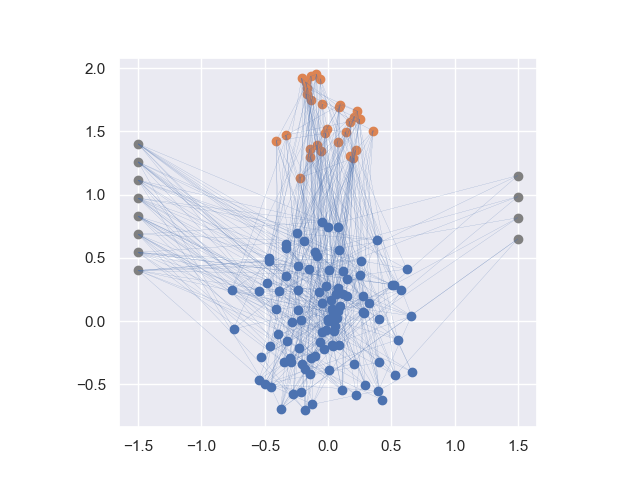
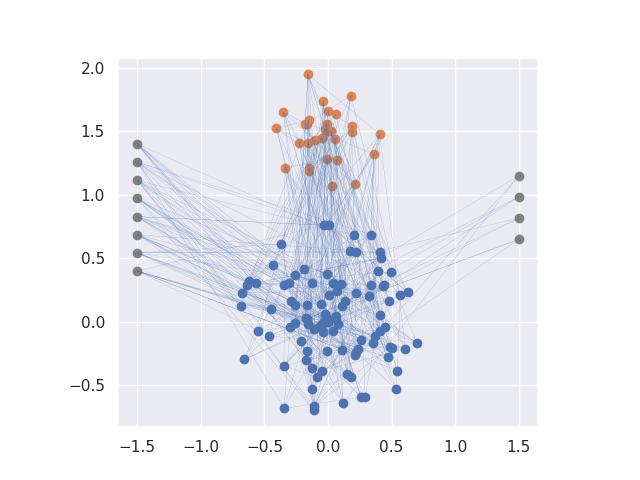
Continuing on animate()

diff --git a/snn.py b/snn.py
@@ -3,7 +3,7 @@ from joblib import delayed, Parallel
 import sys
 
 import numpy as np
-np.random.seed(13)
+#np.random.seed(13)
 
 import nest
 nest.set_verbosity("M_WARNING")
@@ -42,7 +42,10 @@ def get_spike_times_by_id(times_senders, pop, unit_s=False):
     # spikes_per_id = []
     scale = 1000. if unit_s else 1.
 
-    delayed_ = (delayed(__get_spike_times_by_id)(idx, times, senders, scale) for idx in pop)
+    delayed_ = (delayed(__get_spike_times_by_id)(idx, 
+                                                 times, 
+                                                 senders, 
+                                                 scale) for idx in pop)
     ret_ = Parallel(n_jobs=mp.cpu_count())(delayed_)
 
     return ret_
@@ -55,8 +58,8 @@ class SNN:
 
     def __init__(self, 
                  snn_config=None, 
-                 n_excitatory=100, 
-                 n_inhibitory=25, 
+                 n_excitatory=5, 
+                 n_inhibitory=4, 
                  n_inputs=10, 
                  n_outputs=10, 
                  use_noise=False
@@ -90,12 +93,23 @@ class SNN:
         e_lif_params = self.snn_conf["e_lif_params"]
         i_lif_params = self.snn_conf["i_lif_params"]
 
-        self.e_population = nest.Create('iaf_psc_alpha', n_excitatory, e_lif_params)
-        self.i_population = nest.Create('iaf_psc_alpha', n_inhibitory, i_lif_params)
-        self.input_nodes = nest.Create('spike_generator', n_inputs)
-        self.output_nodes = nest.Create('iaf_psc_alpha', n_outputs, e_lif_params)
+        self.e_population = nest.Create('iaf_psc_alpha', 
+                                        n_excitatory, 
+                                        e_lif_params)
 
-        assert (self.e_population[0] == 1), '''Nodes must be created first and has to be in the order 
+        self.i_population = nest.Create('iaf_psc_alpha', 
+                                        n_inhibitory, 
+                                        i_lif_params)
+
+        self.input_nodes = nest.Create('spike_generator', 
+                                        n_inputs)
+
+        self.output_nodes = nest.Create('iaf_psc_alpha', 
+                                        n_outputs, 
+                                        e_lif_params)
+
+        assert (self.e_population[0] == 1), '''Nodes must be created 
+                                            first and has to be in the order 
                                             exc, inh, input, output'''
 
         #-----------------------------------------------
@@ -126,12 +140,35 @@ class SNN:
 
         #-----------------------------------------------
         # Connecting nodes:
-        nest.Connect(self.e_population, self.e_population, rule_dict_e, syn_spec_ee)
-        nest.Connect(self.e_population, self.i_population, rule_dict_e, syn_spec_ei)
-        nest.Connect(self.i_population, self.i_population, rule_dict_i, syn_spec_ii)
-        nest.Connect(self.i_population, self.e_population, rule_dict_i, syn_spec_ie)
-        nest.Connect(self.input_nodes, self.e_population, rule_dict_inp, syn_spec_inp)
-        nest.Connect(self.e_population, self.output_nodes, rule_dict_output, syn_spec_ee)
+        nest.Connect(self.e_population, 
+                     self.e_population, 
+                     rule_dict_e, 
+                     syn_spec_ee)
+
+        nest.Connect(self.e_population, 
+                     self.i_population, 
+                     rule_dict_e, 
+                     syn_spec_ei)
+
+        nest.Connect(self.i_population, 
+                     self.i_population, 
+                     rule_dict_i, 
+                     syn_spec_ii)
+
+        nest.Connect(self.i_population, 
+                     self.e_population, 
+                     rule_dict_i, 
+                     syn_spec_ie)
+
+        nest.Connect(self.input_nodes, 
+                     self.e_population, 
+                     rule_dict_inp, 
+                     syn_spec_inp)
+
+        nest.Connect(self.e_population, 
+                     self.output_nodes, 
+                     rule_dict_output, 
+                     syn_spec_ee)
 
         #-----------------------------------------------
         # Connecting to spike detectors:
@@ -160,11 +197,17 @@ class SNN:
         Plots all the nodes and connections in the SNN
         '''
 
-    
         #-----------------------------------------------
         # Random generating main pop positions:
-        positions_e = get_circular_positions(n_neurons=self.n_excitatory, radius=radius_e, center=center_e)
-        positions_i = get_circular_positions(n_neurons=self.n_inhibitory, radius=radius_i, center=center_i)
+        positions_e = get_circular_positions(
+                                            n_neurons=self.n_excitatory, 
+                                            radius=radius_e, 
+                                            center=center_e)
+
+        positions_i = get_circular_positions(
+                                            n_neurons=self.n_inhibitory, 
+                                            radius=radius_i, 
+                                            center=center_i)
 
             # The relationship between neuron GID and position is: 
 
@@ -176,17 +219,15 @@ class SNN:
 
         # Generating input column:
         positions_input = get_vertical_line_positions(
-                                                    n_neurons=self.n_inputs,
-                                                    column_size=input_column_size,
-                                                    column_center=input_column_center
-                                                    )
+                                            n_neurons=self.n_inputs,
+                                            column_size=input_column_size,
+                                            column_center=input_column_center)
 
         # Generating output column:
         positions_output = get_vertical_line_positions(
-                                                    n_neurons=self.n_outputs,
-                                                    column_size=output_column_size,
-                                                    column_center=output_column_center
-                                                    )
+                                            n_neurons=self.n_outputs,
+                                            column_size=output_column_size,
+                                            column_center=output_column_center)
 
         #connections_.. = nest.GetConnections(target=target, source=source)   
         # format: (source-gid, target-gid, target-thread, synapse-id, port)
@@ -194,16 +235,28 @@ class SNN:
             # source = connections_..[i][0]
             # target = connections_..[i][1]
 
+
+        nest.GetConnections(self.e_population)
+
+
         #-----------------------------------------------
         # Connection storage:
+
         conn_groups = dict(
-            conn_ee = nest.GetConnections(source=self.e_population, target=self.e_population),
-            conn_ei = nest.GetConnections(source=self.e_population, target=self.i_population),
-            conn_ii = nest.GetConnections(source=self.i_population, target=self.i_population),
-            conn_ie = nest.GetConnections(source=self.i_population, target=self.e_population),
-            conn_inp = nest.GetConnections(source=self.input_nodes, target=self.e_population),
-            conn_output = nest.GetConnections(source=self.e_population, target=self.output_nodes),
-        )
+            conn_ee = nest.GetConnections(source=self.e_population, 
+                                          target=self.e_population),
+            conn_ei = nest.GetConnections(source=self.e_population, 
+                                          target=self.i_population),
+            conn_ii = nest.GetConnections(source=self.i_population, 
+                                          target=self.i_population),
+            conn_ie = nest.GetConnections(source=self.i_population, 
+                                          target=self.e_population),
+            conn_inp = nest.GetConnections(source=self.input_nodes, 
+                                          target=self.e_population),
+            conn_output = nest.GetConnections(source=self.e_population, 
+                                          target=self.output_nodes),
+            )
+
         conn_pairs = dict()
         for key in conn_groups:
             conn_pairs[key] = get_conn_pairs(conn_groups[key])    
@@ -270,7 +323,7 @@ class SNN:
 
 
             conn_lines[key] = lines
-            lc = mc.LineCollection(lines, linewidths=0.1)       # choose color here
+            lc = mc.LineCollection(lines, linewidths=0.1) # choose color here
             ax.add_collection(lc) 
             #_______________________________________________
 
@@ -284,11 +337,26 @@ class SNN:
         self.conn_lines = conn_lines
             
 
+        #-----------------------------------------------
         # Plotting nodes:
-        ax.scatter(positions_e[:,0], positions_e[:,1], label='Excitatory')
-        ax.scatter(positions_i[:,0], positions_i[:,1], label='Inhibitory')
-        ax.scatter(positions_input[:,0], positions_input[:,1], color='grey', label='Input')
-        ax.scatter(positions_output[:,0], positions_output[:,1], color='grey', label='Output')
+        
+        ax.scatter(positions_e[:,0], 
+                   positions_e[:,1], 
+                   label='Excitatory')
+
+        ax.scatter(positions_i[:,0], 
+                   positions_i[:,1], 
+                   label='Inhibitory')
+
+        ax.scatter(positions_input[:,0], 
+                   positions_input[:,1], 
+                   color='grey', 
+                   label='Input')
+
+        ax.scatter(positions_output[:,0], 
+                   positions_output[:,1], 
+                   color='grey', 
+                   label='Output')
 
         # plt.axis('off')
         ax.set_aspect('equal')
@@ -303,26 +371,31 @@ class SNN:
 
     def __run_simulation(self, sim_time=100, T=0):
 
-        #----------------------------------------------------------------------
+        #----------------------------------------------
         # simulate
         nest.Simulate(sim_time)
 
-        #----------------------------------------------------------------------
+        #----------------------------------------------
         # analysis
-        stat_e = nest.GetStatus(self.e_spike_detector, 'events')[0]     # GetStatus returns list of 
-        stat_i = nest.GetStatus(self.i_spike_detector, 'events')[0]     # dictionaries
+
+        stat_e = nest.GetStatus(self.e_spike_detector, 'events')[0]
+        stat_i = nest.GetStatus(self.i_spike_detector, 'events')[0]     
+
         stat_input = nest.GetStatus(self.input_spike_detector, 'events')[0]
         stat_output = nest.GetStatus(self.output_spike_detector, 'events')[0]
 
         # stat_x['times'] is a one dimensional list of spike times
-        # stat_x['senders'] is a one dimensional list of gids corresponding to the spike times
+        # stat_x['senders'] is a one dimensional list of gids 
+        # corresponding to the spike times
         
 
-        #----------------------------------------------------------------------
-        # separating out the firings from the most recent simulation (after time T)
-        times_e_indices  = np.argwhere( stat_e['times'] > T )[:,0]          # [:,0] is just because
-        times_i_indices  = np.argwhere( stat_i['times'] > T )[:,0]          # it returns a nested array,
-        times_input_indices = np.argwhere( stat_input['times'] > T )[:,0]   # and we don't want that.
+        #----------------------------------------------
+        # separating out the firings from the most recent simulation 
+        # (after time T)
+
+        times_e_indices  = np.argwhere( stat_e['times'] > T )[:,0]          
+        times_i_indices  = np.argwhere( stat_i['times'] > T )[:,0]         
+        times_input_indices = np.argwhere( stat_input['times'] > T )[:,0] 
         times_output_indices = np.argwhere( stat_output['times'] > T )[:,0]
         
         times_e = stat_e['times'][times_e_indices]
@@ -343,8 +416,14 @@ class SNN:
         # extract spike times in an array per neuron
         e_spike_times = get_spike_times_by_id(spikes_e, self.e_population)
         i_spike_times = get_spike_times_by_id(spikes_i, self.i_population)
-        input_spike_times = get_spike_times_by_id(spikes_input, self.input_nodes)
-        output_spike_times = get_spike_times_by_id(spikes_output, self.output_nodes)
+
+        input_spike_times = get_spike_times_by_id(
+                                                  spikes_input, 
+                                                  self.input_nodes)
+
+        output_spike_times = get_spike_times_by_id(
+                                                  spikes_output, 
+                                                  self.output_nodes)
 
         if len(e_spike_times) == 0:
             print('no spikes')
@@ -361,23 +440,41 @@ class SNN:
         print('mean excitatory rate: {0:.2f} Hz'.format(rate_e))
         print('mean inhibitory rate: {0:.2f} Hz'.format(rate_i))
 
-        return e_spike_times, i_spike_times, input_spike_times, output_spike_times, (rate_e, 
-               rate_i, rate_output)
+        return (e_spike_times, i_spike_times, input_spike_times, 
+               output_spike_times, (rate_e, rate_i, rate_output))
 
 
     def simulate(self, input_spikes, sim_time, T=0):
 
-        input_spiketimes = [{'spike_times': np.round(spt, 1) + T } for spt in input_spikes]
-        nest.SetStatus(self.input_nodes, input_spiketimes)
+        input_spike_times = [{'spike_times': np.round(spt, 1) + T } 
+                                            for spt in input_spikes]
+
+        nest.SetStatus(self.input_nodes, input_spike_times)
 
         return self.__run_simulation(sim_time, T=T)
 
     
-    def animate(self, e_spike_times, i_spike_times, input_spike_times, output_spike_times):
+    def animate(self, 
+                e_spike_times,      # shape=(n_excitatory, spike_times) 
+                i_spike_times,      
+                input_spike_times, 
+                output_spike_times):
         
+        base_ax = self.base_ax
+        base_fig = self.base_fig
+
         fig, ax = plt.subplots()
-        self.conn
-        pass
+
+        full_conn_lines = self.conn_lines   # basis
+
+        print(e_spike_times.shape)
+
+        # Each timestep we want to take all the neurons that fired and 
+        # visualize them and their synapses activating
+
+        def update_frame(i):
+            pass
+
 
 
 def spike_train_gen(sim_time):
@@ -403,19 +500,21 @@ def test():
 
     #----------------------------------------------------------------------
     # Plotting:
-    snn.plot_connectome( 
-                        radius_e=0.8, 
-                        radius_i=0.5, 
-                        
-                        center_e=(0,0), 
-                        center_i=(0,1.5), 
+    plotting = True
+    if plotting:
+        snn.plot_connectome( 
+                            radius_e=0.8, 
+                            radius_i=0.5, 
+                            
+                            center_e=(0,0), 
+                            center_i=(0,1.5), 
 
-                        input_column_size=1, 
-                        input_column_center=(-1.5,0.9),
+                            input_column_size=1, 
+                            input_column_center=(-1.5,0.9),
 
-                        output_column_size=1/8 * 4, 
-                        output_column_center=(1.5,0.9),
-                        )
+                            output_column_size=1/8 * 4, 
+                            output_column_center=(1.5,0.9),
+                            )
 
     # Dummy input spikes:
     sim_time = 100
@@ -425,8 +524,17 @@ def test():
     # Simulating:
     T = 0
     sim_data = snn.simulate(input_spikes=inputs, sim_time=sim_time, T=T)
-
-
+    e_spike_times = np.array(sim_data[0])
+    i_spike_times = np.array(sim_data[1])
+    input_spike_times = np.array(sim_data[2])
+    output_spike_times = np.array(sim_data[3])
+    
+    #----------------------------------------------------------------------
+    # Animating:
+    snn.animate(e_spike_times, 
+                i_spike_times, 
+                input_spike_times, 
+                output_spike_times)
 
 
 if __name__ == "__main__":

diff --git a/functions.py b/functions.py
@@ -75,8 +75,11 @@ def get_circular_positions_uniform(n_neurons, radius=1, center=(0,0)):
     
 def get_vertical_line_positions(n_neurons, column_size=1, column_center=(-1,0)):
         
-    x_positions = np.zeros(shape=(n_neurons)) + column_center[0]
-    y_positions = np.linspace(-column_size/2, column_size/2, n_neurons) + column_center[1]
+    x_positions = np.zeros(shape=(n_neurons)) 
+    x_positions += column_center[0] 
+
+    y_positions = np.linspace(-column_size/2, column_size/2, n_neurons) 
+    y_positions += column_center[1]
 
     positions = np.array( [x_positions, y_positions] ).T
     return positions
